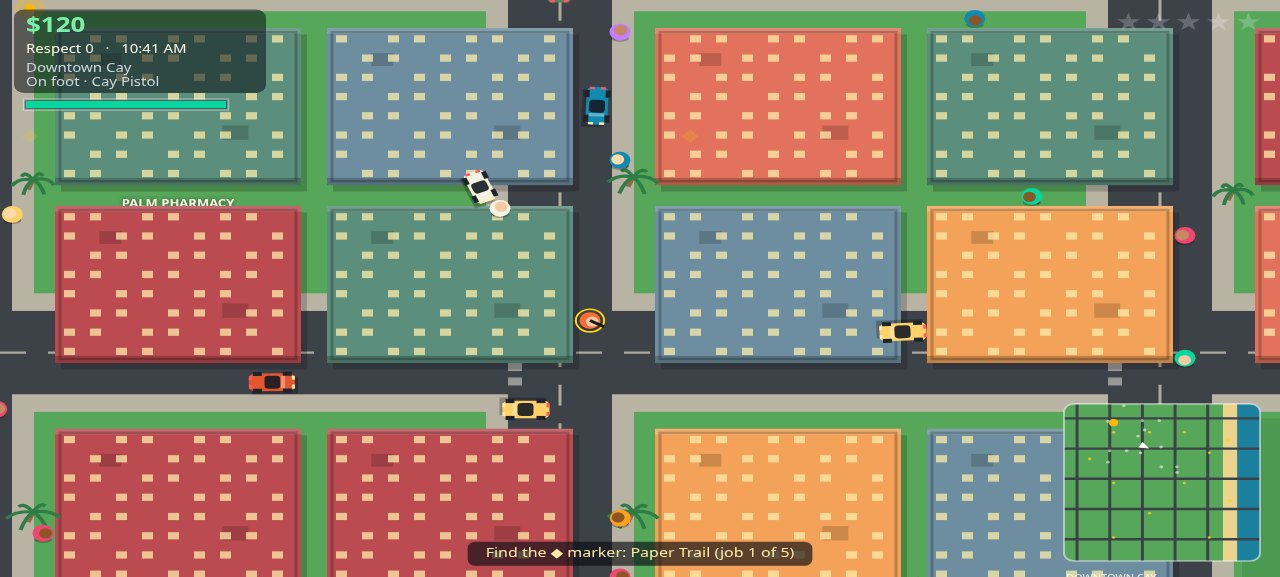
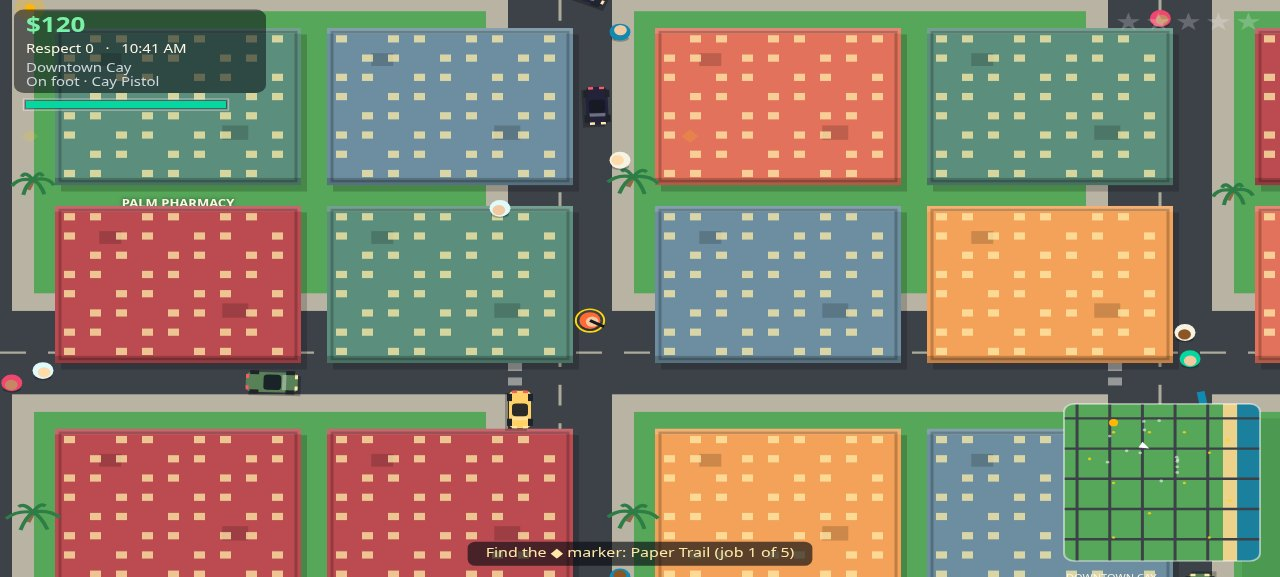
Polish pass: tighter police pursuit, road-grid traffic routing, livelier streets
- Police: interceptor top speed/accel/grip up (424/292/3.75), pursuit
  steering leads the quarry and cuts across at the crossing nearest the
  quarry when far; chase shot staging tightened so cruisers sit on the
  coupe's tail. LOS cooling and escape unchanged.
- Traffic: waypoint routing rewritten onto the road grid (lane points at
  crossings, 38% turns, U-turn fallback) with turn speed control, so legs
  stay on roads instead of cutting across blocks; parked cars now park
  parallel at the kerb; wedged cars (alley/block interior) are recovered
  to the nearest crossing after 3 s barely moving.
- Life: traffic 13->17, parked 26->30, pedestrians 34->46 with sidewalk
  pairs, gulls over the beach.
- Screenshots recaptured (seed 7): chase now shows a cruiser ~20 units
  behind the coupe; onfoot staging moved off a building slot and clears
  shoved cars out of frame.

diff --git a/game/src/vehicles.js b/game/src/vehicles.js
@@ -2,7 +2,7 @@
 // serves the player, traffic and police — throttle, brake/reverse, steering
 // that bites harder at low speed, drag, and body damage from impacts.
 import { CAR_MODELS, POLICE_MODEL } from './config.js';
-import { AVENUES, STREETS, collideCircle, nearestCrossing } from './city.js';
+import { AVENUES, STREETS, collideCircle } from './city.js';
 import { angleLerp, clamp, pickFrom } from './random.js';
 
 let nextId = 1;
@@ -20,8 +20,9 @@ export function spawnParkedCars(city, random, count) {
     const avenue = pickFrom(random, AVENUES);
     const y = 120 + random() * 2360;
     if (STREETS.some((s) => Math.abs(y - s) < 80)) continue;
-    const side = random() < 0.5 ? -34 : 34;
-    cars.push(createCar(random, avenue + side, y, side < 0 ? Math.PI : 0, 'parked'));
+    const side = random() < 0.5 ? -40 : 40;
+    // Parallel to the avenue, hugging the kerb — not across the driving lanes.
+    cars.push(createCar(random, avenue + side, y, side < 0 ? Math.PI / 2 : -Math.PI / 2, 'parked'));
   }
   return cars;
 }
@@ -56,26 +57,44 @@ export function driveCar(car, dt, throttle, steer) {
   car.y += Math.sin(car.angle) * car.speed * dt;
   return Math.abs(car.speed);
 }
-/** Traffic brain: cruise the current road, slow for the car ahead, turn at crossings. */
+/** Next traffic waypoint: the lane point at the next crossing along the
+ * car's current road — or, sometimes, the lane point one crossing down the
+ * crossing road. Every leg between two waypoints stays inside the union of
+ * the two road strips, so traffic never cuts across a block corner. */
+function nextTrafficTarget(car, random) {
+  const vertical = Math.abs(Math.sin(car.angle)) >= Math.abs(Math.cos(car.angle));
+  const roads = vertical ? AVENUES : STREETS;
+  const cross = vertical ? STREETS : AVENUES;
+  const pos = vertical ? car.y : car.x;
+  const dir = vertical ? (Math.sin(car.angle) >= 0 ? 1 : -1) : (Math.cos(car.angle) >= 0 ? 1 : -1);
+  const road = roads.reduce((b, r) => (Math.abs(r - (vertical ? car.x : car.y)) < Math.abs(b - (vertical ? car.x : car.y)) ? r : b), roads[0]);
+  const ahead = cross.filter((c) => (c - pos) * dir > 30).sort((p, q) => (p - pos) * dir - (q - pos) * dir)[0];
+  if (ahead !== undefined && random() < 0.38) { // turn onto the crossing road
+    let dir2 = random() < 0.5 ? 1 : -1;
+    let next = roads.filter((r) => (r - (vertical ? car.x : car.y)) * dir2 > 30).sort((p, q) => (p - (vertical ? car.x : car.y)) * dir2 - (q - (vertical ? car.x : car.y)) * dir2)[0];
+    if (next === undefined) { dir2 = -dir2; next = roads.filter((r) => (r - (vertical ? car.x : car.y)) * dir2 > 30).sort((p, q) => (p - (vertical ? car.x : car.y)) * dir2 - (q - (vertical ? car.x : car.y)) * dir2)[0]; }
+    if (next !== undefined) return vertical ? { x: next, y: ahead + 26 * dir2 } : { x: ahead + 26 * dir2, y: next };
+  }
+  if (ahead !== undefined) return vertical ? { x: road + 26 * dir, y: ahead } : { x: ahead, y: road + 26 * dir };
+  // The road runs out: U-turn at the last crossing behind, on the far lane.
+  const behind = cross.filter((c) => (c - pos) * dir < -30).sort((p, q) => (q - pos) * dir - (p - pos) * dir)[0];
+  if (behind !== undefined) return vertical ? { x: road - 26 * dir, y: behind } : { x: behind, y: road - 26 * dir };
+  return vertical ? { x: road + 26 * dir, y: pos + 260 * dir } : { x: pos + 260 * dir, y: road + 26 * dir };
+}
+/** Traffic brain: follow the road grid waypoint to waypoint, holding the
+ * lane line, easing into turns, and slowing for the car ahead. */
 export function trafficThink(car, dt, cars, random) {
   let throttle = 0.72; let steer = 0;
-  // Hold the lane line: aim at a point ahead on the same road.
-  if (!car.target || Math.hypot(car.target.x - car.x, car.target.y - car.y) < 90) {
-    const cross = nearestCrossing(car.x + Math.cos(car.angle) * 260, car.y + Math.sin(car.angle) * 260);
-    car.target = cross;
-    if (random() < 0.4) { // sometimes turn: aim down the crossing road instead
-      const vertical = AVENUES.includes(cross.x) && Math.abs(Math.cos(car.angle)) < 0.5;
-      car.target = vertical ? { x: cross.x, y: cross.y } : cross;
-    }
+  if (!car.target || Math.hypot(car.target.x - car.x, car.target.y - car.y) < 70) {
+    car.target = nextTrafficTarget(car, random);
   }
   const want = Math.atan2(car.target.y - car.y, car.target.x - car.x);
   let diff = want - car.angle;
   while (diff > Math.PI) diff -= Math.PI * 2;
   while (diff < -Math.PI) diff += Math.PI * 2;
-  steer = clamp(diff * 2.2, -1, 1);
-  // Keep right-hand lane offset.
-  const laneX = car.target.x - Math.sin(want) * 0 + Math.cos(want + Math.PI / 2) * 0;
-  void laneX;
+  steer = clamp(diff * 2.4, -1, 1);
+  if (Math.abs(diff) > 1.1) throttle = 0.05; // near-stop swing: U-turns stay on the road
+  else if (Math.abs(diff) > 0.55) throttle = 0.35; // ease off while the nose comes round
   for (const other of cars) {
     if (other === car || other.dead) continue;
     const fx = car.x + Math.cos(car.angle) * 62; const fy = car.y + Math.sin(car.angle) * 62;

diff --git a/game/src/shots.js b/game/src/shots.js
@@ -5,6 +5,7 @@
 // where the pilot drives and where the cast waits, never composited.
 import { SCREEN_TITLE, SCREEN_PLAY } from './render.js';
 import { STEP } from './config.js';
+import { nearestCrossing } from './city.js';
 
 const silentAudio = { door() {}, engine() {}, siren() {}, shot() {}, punch() {}, crash() {}, pickup() {}, cash() {}, jingle() {}, music() {} };
 /** A fake held-keys input: drives south in the right lane of avenue x=1440. */
@@ -26,13 +27,30 @@ export function stageShot(name, world) {
     // job 1's marker across town, traffic rolling, people on the sidewalks.
     s.clock = 10 * 60 + 40;
     run(world, 2.0, null);
+    // Frame hygiene: two seconds of ambient chaos can leave a car shoved
+    // against a building inside the shot. Clear any such car back to its
+    // nearest crossing before the cast is placed (staged cars are set
+    // after this, on roads, and are not touched).
+    for (const c of s.cars) {
+      if (c.kind !== 'traffic' || c.dead) continue;
+      if (c.x < 880 || c.x > 2160 || c.y < 300 || c.y > 1020) continue;
+      for (const b of s.city.buildings) {
+        const dx = Math.max(b.x - c.x, 0, c.x - (b.x + b.w));
+        const dy = Math.max(b.y - c.y, 0, c.y - (b.y + b.h));
+        if (Math.hypot(dx, dy) < 12) {
+          const cross = nearestCrossing(c.x, c.y);
+          c.x = cross.x; c.y = cross.y; c.speed = 0; c.target = null;
+          break;
+        }
+      }
+    }
     p.x = 1470; p.y = 700; p.angle = 0.5; p.aimAngle = 0.5; p.car = null;
     const spots = [[1500, 500], [1380, 560], [1500, 1020], [1380, 1080], [1500, 340], [1380, 1240]];
     s.peds.forEach((ped, i) => { if (i < spots.length) { ped.x = spots[i][0]; ped.y = spots[i][1]; ped.panic = 0; ped.target = null; } });
     const traffic = s.cars.filter((c) => c.kind === 'traffic');
     if (traffic[0]) { traffic[0].x = 1466; traffic[0].y = 430; traffic[0].angle = Math.PI / 2; traffic[0].speed = 120; }
     if (traffic[1]) { traffic[1].x = 1150; traffic[1].y = 766; traffic[1].angle = 0; traffic[1].speed = 110; }
-    if (traffic[2]) { traffic[2].x = 1800; traffic[2].y = 714; traffic[2].angle = Math.PI; traffic[2].speed = 100; }
+    if (traffic[2]) { traffic[2].x = 2066; traffic[2].y = 900; traffic[2].angle = -Math.PI / 2; traffic[2].speed = 100; }
     s.camera.x = 1520; s.camera.y = 660;
     world.step(STEP, null, silentAudio);
     s.camera.x = 1520; s.camera.y = 660;
@@ -59,11 +77,11 @@ export function stageShot(name, world) {
     // frame behind the coupe — they are real pursuit cars either way.
     const cops = s.cars.filter((c) => c.kind === 'police' && !c.dead)
       .sort((a, b) => Math.hypot(a.x - car.x, a.y - car.y) - Math.hypot(b.x - car.x, b.y - car.y));
-    const slots = [[-120, -26], [-225, 28], [-330, -52]];
+    const slots = [[-105, -28], [-195, 26], [-295, -50]];
     cops.slice(0, 3).forEach((cop, i) => {
-      if (Math.hypot(cop.x - car.x, cop.y - car.y) > 300) {
+      if (Math.hypot(cop.x - car.x, cop.y - car.y) > 320) {
         cop.x = car.x + slots[i][1]; cop.y = car.y + slots[i][0];
-        cop.angle = Math.PI / 2; cop.speed = 230;
+        cop.angle = Math.PI / 2; cop.speed = 305;
       }
     });
     p.heat = 3.6; p.x = car.x; p.y = car.y;

diff --git a/game/src/world.js b/game/src/world.js
@@ -3,7 +3,7 @@
 // No drawing and no DOM here; main.js feeds input in and render.js paints
 // the state out. Events come back as flags so sound and screens stay loose.
 import { PLAYER, VIEW, WANTED, WORLD } from './config.js';
-import { createCity, collideCircle, districtAt } from './city.js';
+import { createCity, collideCircle, districtAt, nearestCrossing, onRoad } from './city.js';
 import { createCar, spawnParkedCars, spawnTraffic, driveCar, trafficThink, collideCars } from './vehicles.js';
 import { spawnPedestrians, stepPedestrian, createPedestrian } from './pedestrians.js';
 import { forceForStars, policeThink, spawnPoliceCar, stepOfficer, wantedStars } from './police.js';
@@ -23,8 +23,8 @@ export function createWorld(random, saved) {
     heat: 0, unseen: 0, bust: 0, dead: false, aimAngle: 0, walkPhase: 0, punchTimer: 0,
     shirt: '#ff6b35', skin: '#f2c9a0', speed: 0,
   };
-  const cars = [...spawnParkedCars(city, random, 26), ...spawnTraffic(random, 13)];
-  const peds = spawnPedestrians(random, 34);
+  const cars = [...spawnParkedCars(city, random, 30), ...spawnTraffic(random, 17)];
+  const peds = spawnPedestrians(random, 46);
   const state = {
     city, player, cars, peds, officers: [], thugs: [],
     combat: createCombat(), missions: M.createMissionState(saved),
@@ -199,6 +199,32 @@ export function createWorld(random, saved) {
       if (c === player.car || c.dead) continue;
       if (c.kind === 'traffic') {
         if (distance(c.x, c.y, player.x, player.y) > 1500) continue;
+        // Wedged-car recovery: collision shoves can ratchet a traffic car
+        // into an alley, a block interior, or sideways against a building
+        // face at an alley mouth — spots it can never drive out of, because
+        // every move resets against a wall. A healthy traffic car is never
+        // (off the road grid OR pressed within collision range of a
+        // building) while barely moving for three straight seconds — road
+        // lanes run 56+ units from every face and queues sit on lanes — so
+        // a car that matches is put back on the nearest crossing.
+        c.stuckT = (c.stuckT || 0) + dt;
+        if (c.stuckT >= 3) {
+          const moved = Math.hypot(c.x - (c.stuckX ?? c.x), c.y - (c.stuckY ?? c.y));
+          if (moved < 6) {
+            let pressed = !onRoad(c.x, c.y);
+            if (!pressed) for (const b of city.buildings) {
+              const dx = Math.max(b.x - c.x, 0, c.x - (b.x + b.w));
+              const dy = Math.max(b.y - c.y, 0, c.y - (b.y + b.h));
+              if (Math.hypot(dx, dy) < 26) { pressed = true; break; }
+            }
+            if (pressed) {
+              const cross = nearestCrossing(c.x, c.y);
+              c.x = cross.x; c.y = cross.y; c.speed = 0; c.target = null;
+              c.angle = Math.round(c.angle / (Math.PI / 2)) * (Math.PI / 2);
+            }
+          }
+          c.stuckX = c.x; c.stuckY = c.y; c.stuckT = 0;
+        }
         const t = trafficThink(c, dt, cars, random);
         driveCar(c, dt, t.throttle, t.steer);
       } else if (c.kind === 'police') { /* stepped below */ }

diff --git a/game/src/render.js b/game/src/render.js
@@ -139,6 +139,22 @@ export function createRenderer(canvas) {
       ctx.beginPath(); ctx.arc(x + Math.cos(c.angle) * 22, y + Math.sin(c.angle) * 22 - 6, 6 + Math.sin(t * 7) * 2, 0, 6.29); ctx.fill();
     }
   }
+  /** Gulls circling the beach thermals — pure function of elapsed time. */
+  function drawGulls(state, x0, y0) {
+    const t = state.elapsed;
+    ctx.strokeStyle = 'rgba(247,243,227,0.9)'; ctx.lineWidth = 2;
+    for (let i = 0; i < 7; i += 1) {
+      const cx = 3020 + Math.cos(t * 0.11 + i * 2.4) * (90 + i * 26);
+      const cy = 1120 + Math.sin(t * 0.14 + i * 1.9) * (60 + i * 17);
+      const x = cx - x0; const y = cy - y0;
+      if (x < -30 || y < -30 || x > VIEW.width + 30 || y > VIEW.height + 30) continue;
+      const flap = Math.sin(t * 6 + i * 1.7) * 3.4;
+      ctx.beginPath();
+      ctx.moveTo(x - 8, y + flap); ctx.quadraticCurveTo(x - 3, y - 3 - flap, x, y);
+      ctx.quadraticCurveTo(x + 3, y - 3 - flap, x + 8, y + flap);
+      ctx.stroke();
+    }
+  }
   function drawPerson(p, x0, y0, t, isPlayer) {
     const x = p.x - x0; const y = p.y - y0;
     const bob = p.speed || isPlayer ? Math.sin((p.walkPhase || t * 8)) * 1.6 : 0;
@@ -201,6 +217,7 @@ export function createRenderer(canvas) {
     for (const t of state.thugs) drawPerson(t, x0, y0, state.elapsed, false);
     for (const o of state.officers) drawPerson({ ...o, officer: true }, x0, y0, state.elapsed, false);
     if (!state.player.car) drawPerson(state.player, x0, y0, state.elapsed, true);
+    drawGulls(state, x0, y0);
     // bullets + particles
     ctx.strokeStyle = '#ffe9a8'; ctx.lineWidth = 2.4;
     for (const b of state.combat.bullets) {

diff --git a/game/src/police.js b/game/src/police.js
@@ -20,16 +20,18 @@ export function spawnPoliceCar(random, player) {
 /** Pursuit steering: aim at a point just ahead of the quarry; ram when close, shadow when far. */
 export function policeThink(car, dt, playerPos, playerSpeed) {
   const dist = Math.hypot(playerPos.x - car.x, playerPos.y - car.y);
-  const lead = clamp(dist / 300, 0, 0.6);
+  const lead = clamp(dist / 240, 0.15, 0.75);
   const tx = playerPos.x + (playerPos.vx || 0) * lead;
   const ty = playerPos.y + (playerPos.vy || 0) * lead;
-  // When far away, route via the nearest crossing so cruisers stay on streets.
-  const aim = dist > 620 ? nearestCrossing(car.x, car.y) : { x: tx, y: ty };
+  // When far away, route via the crossing nearest the quarry, so cruisers
+  // converge on the road the quarry is actually using instead of idling
+  // toward their own nearest corner.
+  const aim = dist > 620 ? nearestCrossing(tx, ty) : { x: tx, y: ty };
   const want = Math.atan2(aim.y - car.y, aim.x - car.x);
   let diff = want - car.angle;
   while (diff > Math.PI) diff -= Math.PI * 2;
   while (diff < -Math.PI) diff += Math.PI * 2;
-  const steer = clamp(diff * 2.6, -1, 1);
+  const steer = clamp(diff * 3.0, -1, 1);
   let throttle = 1;
   if (Math.abs(diff) > 2.4) throttle = -0.7; // spun around: reverse out
   else if (dist < 60 && playerSpeed < 30) throttle = 0.2; // alongside a stopped quarry: hold

diff --git a/game/src/pedestrians.js b/game/src/pedestrians.js
@@ -16,13 +16,20 @@ export function createPedestrian(random, x, y) {
 }
 export function spawnPedestrians(random, count) {
   const peds = [];
-  for (let i = 0; i < count; i += 1) {
+  while (peds.length < count) {
     if (random() < 0.18) { peds.push(createPedestrian(random, BEACH_X + 40 + random() * 200, 100 + random() * 2400)); continue; }
     const vertical = random() < 0.5;
     const road = pickFrom(random, vertical ? AVENUES : STREETS);
     const off = (random() < 0.5 ? -1 : 1) * (64 + random() * 14);
     const along = 100 + random() * 2400;
-    peds.push(createPedestrian(random, vertical ? road + off : along, vertical ? along : road + off));
+    const x = vertical ? road + off : along; const y = vertical ? along : road + off;
+    peds.push(createPedestrian(random, x, y));
+    // Many strollers walk in pairs: a companion a few steps off, same pavement.
+    if (peds.length < count && random() < 0.45) {
+      const mate = createPedestrian(random, x + rangeIn(random, -20, 20), y + rangeIn(random, -20, 20));
+      mate.wait = rangeIn(random, 0, 2);
+      peds.push(mate);
+    }
   }
   return peds;
 }

diff --git a/game/src/config.js b/game/src/config.js
@@ -21,7 +21,7 @@ export const CAR_MODELS = [
   { name: 'Vela Coupe', topSpeed: 398, accel: 268, grip: 3.9, len: 47, wid: 22, colors: ['#ef476f', '#118ab2', '#ffd166', '#22223b'] },
   { name: 'Dune Buggy', topSpeed: 268, accel: 232, grip: 2.4, len: 40, wid: 22, colors: ['#06d6a0', '#ff9f1c', '#c77dff', '#f4f1de'] },
 ];
-export const POLICE_MODEL = { name: 'PCPD Interceptor', topSpeed: 368, accel: 248, grip: 3.6, len: 48, wid: 23 };
+export const POLICE_MODEL = { name: 'PCPD Interceptor', topSpeed: 424, accel: 292, grip: 3.75, len: 48, wid: 23 };
 export const DISTRICTS = [
   { name: 'Coral Row', x: 0, y: 0, w: 1450, h: 1250 },
   { name: 'Downtown Cay', x: 1450, y: 0, w: 1200, h: 1250 },
